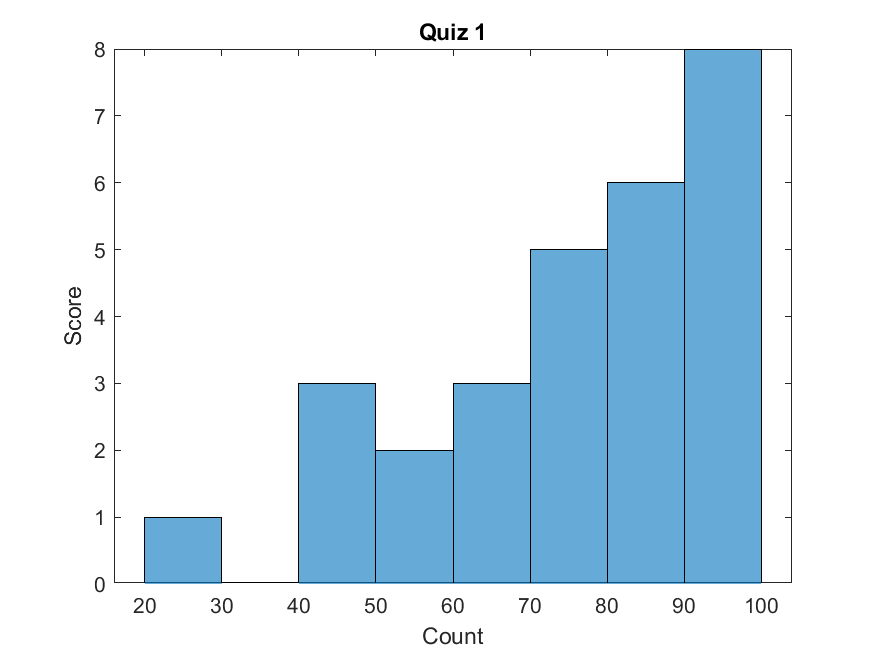
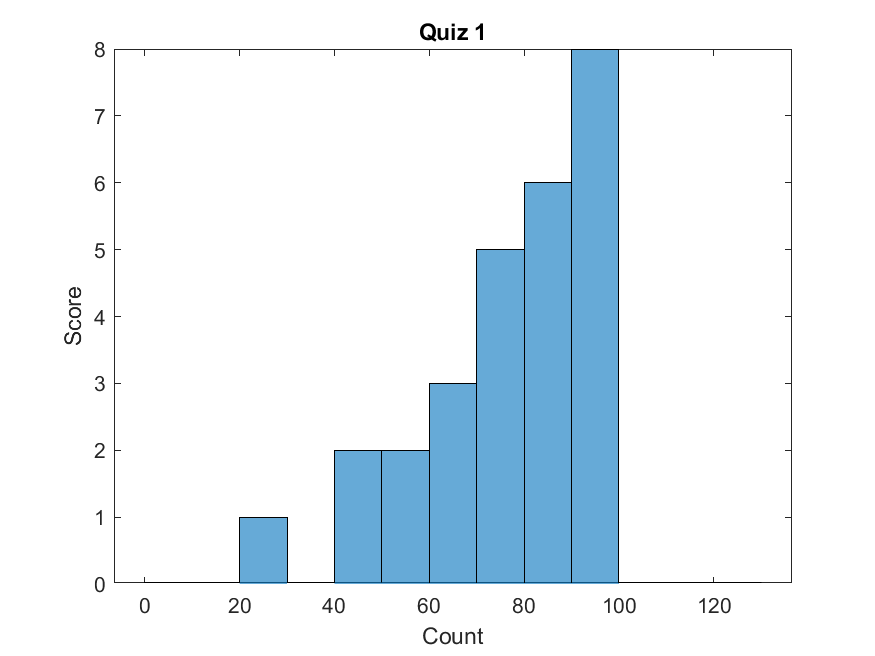
latest build

Changed region(s): [[0.4629, 0.061, 0.8949, 0.9451], [0.1543, 0.5793, 0.5246, 0.9451], [0.5863, 0.9146, 0.6171, 0.9451]]

diff --git a/index.html b/index.html
@@ -160,7 +160,7 @@ MathJax.Hub.Queue(function() {
                 </h3>
             </header>
             <section class="notepad-post-excerpt">
-                <p>Here is the solution to this quiz. You have 40 minutes to respond to the questions and submit your answers. Show that in a 1-dimensional elastic collision, the relative velocity of the two particles after the collision is the negative...</p>
+                <p>Here is the solution to this quiz. The following figure illustrates the grade distribution for this activity. Maximum possible points is 100 (excluding extra credit). You have 40 minutes to respond to the questions and submit your answers. Show that...</p>
             </section>
             
                 <div class="notepad-index-post-tags">
@@ -265,7 +265,7 @@ MathJax.Hub.Queue(function() {
                 </h3>
             </header>
             <section class="notepad-post-excerpt">
-                <p>Here is the solution to this quiz. You have 60 minutes to respond to the questions and submit your answers. A pendulum is held with its string horizontally and is then released. The mass swings down, and then on its...</p>
+                <p>Here is the solution to this quiz. The following figure illustrates the grade distribution for this activity. Maximum possible points is 100 (excluding extra credit). You have 60 minutes to respond to the questions and submit your answers. A pendulum...</p>
             </section>
             
                 <div class="notepad-index-post-tags">
@@ -298,18 +298,7 @@ MathJax.Hub.Queue(function() {
                 </h3>
             </header>
             <section class="notepad-post-excerpt">
-                <p>
-♣ Due Date: Tuesday March 25, 2025 at 3:30 PM.
-
-
-  See the following lecture notes for the homework problems. 
-When returning your answers, mark the sets with the corresponding lecture note numbers to make the sets distinguishable:
-    
-      acm7.pdf
-    
-  
-
-</p>
+                <p>The following figure illustrates the grade distribution for this activity. Maximum possible points is 100 (excluding extra credit). ♣ Due Date: Tuesday March 25, 2025 at 3:30 PM. See the following lecture notes for the homework problems. When returning your...</p>
             </section>
             
                 <div class="notepad-index-post-tags">
@@ -378,18 +367,7 @@ When returning your answers, mark the sets with the corresponding lecture note n
                 </h3>
             </header>
             <section class="notepad-post-excerpt">
-                <p>
-♣ Due Date: Tuesday March 4, 2025 at 3:30 PM.
-
-
-  See the following lecture notes for the homework problems. 
-When returning your answers, mark the sets with the corresponding lecture note numbers to make the sets distinguishable:
-    
-      acm6.pdf
-    
-  
-
-</p>
+                <p>The following figure illustrates the grade distribution for this activity. Maximum possible points is 100 (excluding extra credit). ♣ Due Date: Tuesday March 4, 2025 at 3:30 PM. See the following lecture notes for the homework problems. When returning your...</p>
             </section>
             
                 <div class="notepad-index-post-tags">
@@ -691,8 +669,8 @@ When returning your answers, mark the sets with the corresponding lecture note n
 </main>
     <footer class="notepad-site-footer">
     <div class="copyright">
-         <!-- <section>Last updated 2025 / 03 / 26</section></br> -->
-         <section>Last updated Wednesday, 26 Mar 2025 at 07:21 PM CST</section></br>
+         <!-- <section>Last updated 2025 / 03 / 27</section></br> -->
+         <section>Last updated Thursday, 27 Mar 2025 at 11:40 AM CST</section></br>
          <section>All content exclusively maintained by <a href=https://www.shahmoradi.org target="_blank">Amir Shahmoradi</a> <!-- &copy;--> </section></br>
          <section><a class="icon-ghost" href="https://www.uta.edu/physics/" target="_blank">Department of Physics | Data Science Program</a></section></br>
          <section><a class="icon-ghost" href="https://www.uta.edu/" target="_blank">The University of Texas at Arlington</a></section></br>

diff --git a/homework/4.html b/homework/4.html
@@ -142,6 +142,15 @@ MathJax.Hub.Queue(function() {
         
             <div style="text-align:justify;">
                 
+<p><br />
+The following figure illustrates the grade distribution for this activity.</p>
+<figure>
+    <img src="/ACM2025S/homework/hw4.png" width="700" />
+    <figcaption style="text-align:center">
+        Maximum possible points is 100 (excluding extra credit).
+    </figcaption>
+</figure>
+
 <p>♣ <strong>Due Date: Tuesday March 25, 2025 at 3:30 PM</strong>.</p>
 
 <ol>
@@ -218,8 +227,8 @@ When returning your answers, mark the sets with the corresponding lecture note n
 
     <footer class="notepad-site-footer">
     <div class="copyright">
-         <!-- <section>Last updated 2025 / 03 / 26</section></br> -->
-         <section>Last updated Wednesday, 26 Mar 2025 at 07:21 PM CST</section></br>
+         <!-- <section>Last updated 2025 / 03 / 27</section></br> -->
+         <section>Last updated Thursday, 27 Mar 2025 at 11:40 AM CST</section></br>
          <section>All content exclusively maintained by <a href=https://www.shahmoradi.org target="_blank">Amir Shahmoradi</a> <!-- &copy;--> </section></br>
          <section><a class="icon-ghost" href="https://www.uta.edu/physics/" target="_blank">Department of Physics | Data Science Program</a></section></br>
          <section><a class="icon-ghost" href="https://www.uta.edu/" target="_blank">The University of Texas at Arlington</a></section></br>

diff --git a/homework/3.html b/homework/3.html
@@ -142,6 +142,15 @@ MathJax.Hub.Queue(function() {
         
             <div style="text-align:justify;">
                 
+<p><br />
+The following figure illustrates the grade distribution for this activity.</p>
+<figure>
+    <img src="/ACM2025S/homework/hw3.png" width="700" />
+    <figcaption style="text-align:center">
+        Maximum possible points is 100 (excluding extra credit).
+    </figcaption>
+</figure>
+
 <p>♣ <strong>Due Date: Tuesday March 4, 2025 at 3:30 PM</strong>.</p>
 
 <ol>
@@ -218,8 +227,8 @@ When returning your answers, mark the sets with the corresponding lecture note n
 
     <footer class="notepad-site-footer">
     <div class="copyright">
-         <!-- <section>Last updated 2025 / 03 / 26</section></br> -->
-         <section>Last updated Wednesday, 26 Mar 2025 at 07:21 PM CST</section></br>
+         <!-- <section>Last updated 2025 / 03 / 27</section></br> -->
+         <section>Last updated Thursday, 27 Mar 2025 at 11:40 AM CST</section></br>
          <section>All content exclusively maintained by <a href=https://www.shahmoradi.org target="_blank">Amir Shahmoradi</a> <!-- &copy;--> </section></br>
          <section><a class="icon-ghost" href="https://www.uta.edu/physics/" target="_blank">Department of Physics | Data Science Program</a></section></br>
          <section><a class="icon-ghost" href="https://www.uta.edu/" target="_blank">The University of Texas at Arlington</a></section></br>

diff --git a/quiz/4.html b/quiz/4.html
@@ -150,6 +150,17 @@ MathJax.Hub.Queue(function() {
 
 <p><br /></p>
 
+<p>The following figure illustrates the grade distribution for this activity.</p>
+<figure>
+    <img src="/ACM2025S/quiz/qz4.png" width="700" />
+    <figcaption style="text-align:center">
+        Maximum possible points is 100 (excluding extra credit).
+    </figcaption>
+</figure>
+
+<hr />
+<hr />
+
 <p>You have 40 minutes to respond to the questions and submit your answers.</p>
 
 <p><br /></p>
@@ -243,8 +254,8 @@ What is the effective drag force experienced by the sphere? (score : 20)</li>
 
     <footer class="notepad-site-footer">
     <div class="copyright">
-         <!-- <section>Last updated 2025 / 03 / 26</section></br> -->
-         <section>Last updated Wednesday, 26 Mar 2025 at 07:21 PM CST</section></br>
+         <!-- <section>Last updated 2025 / 03 / 27</section></br> -->
+         <section>Last updated Thursday, 27 Mar 2025 at 11:40 AM CST</section></br>
          <section>All content exclusively maintained by <a href=https://www.shahmoradi.org target="_blank">Amir Shahmoradi</a> <!-- &copy;--> </section></br>
          <section><a class="icon-ghost" href="https://www.uta.edu/physics/" target="_blank">Department of Physics | Data Science Program</a></section></br>
          <section><a class="icon-ghost" href="https://www.uta.edu/" target="_blank">The University of Texas at Arlington</a></section></br>

diff --git a/about/index.html b/about/index.html
@@ -188,7 +188,7 @@ MathJax.Hub.Queue(function() {
 
 <h3 id="about-students">About Students</h3>
 
-<p>As of Wednesday, 26 Mar 2025 at 07:21 PM, there are 25 students enrolled in this course. Below is the latest photo of students.</p>
+<p>As of Thursday, 27 Mar 2025 at 11:40 AM, there are 25 students enrolled in this course. Below is the latest photo of students.</p>
 
 <figure>
 	<img src="/ACM2025S/images/about/minions.jpg" alt="students" />
@@ -217,8 +217,8 @@ MathJax.Hub.Queue(function() {
         <div class="cf"></div>
     <footer class="notepad-site-footer">
     <div class="copyright">
-         <!-- <section>Last updated 2025 / 03 / 26</section></br> -->
-         <section>Last updated Wednesday, 26 Mar 2025 at 07:21 PM CST</section></br>
+         <!-- <section>Last updated 2025 / 03 / 27</section></br> -->
+         <section>Last updated Thursday, 27 Mar 2025 at 11:40 AM CST</section></br>
          <section>All content exclusively maintained by <a href=https://www.shahmoradi.org target="_blank">Amir Shahmoradi</a> <!-- &copy;--> </section></br>
          <section><a class="icon-ghost" href="https://www.uta.edu/physics/" target="_blank">Department of Physics | Data Science Program</a></section></br>
          <section><a class="icon-ghost" href="https://www.uta.edu/" target="_blank">The University of Texas at Arlington</a></section></br>

diff --git a/quiz/3.html b/quiz/3.html
@@ -150,6 +150,17 @@ MathJax.Hub.Queue(function() {
 
 <p><br /></p>
 
+<p>The following figure illustrates the grade distribution for this activity.</p>
+<figure>
+    <img src="/ACM2025S/quiz/qz3.png" width="700" />
+    <figcaption style="text-align:center">
+        Maximum possible points is 100 (excluding extra credit).
+    </figcaption>
+</figure>
+
+<hr />
+<hr />
+
 <p>You have 60 minutes to respond to the questions and submit your answers.</p>
 
 <p><br /></p>
@@ -256,8 +267,8 @@ MathJax.Hub.Queue(function() {
 
     <footer class="notepad-site-footer">
     <div class="copyright">
-         <!-- <section>Last updated 2025 / 03 / 26</section></br> -->
-         <section>Last updated Wednesday, 26 Mar 2025 at 07:21 PM CST</section></br>
+         <!-- <section>Last updated 2025 / 03 / 27</section></br> -->
+         <section>Last updated Thursday, 27 Mar 2025 at 11:40 AM CST</section></br>
          <section>All content exclusively maintained by <a href=https://www.shahmoradi.org target="_blank">Amir Shahmoradi</a> <!-- &copy;--> </section></br>
          <section><a class="icon-ghost" href="https://www.uta.edu/physics/" target="_blank">Department of Physics | Data Science Program</a></section></br>
          <section><a class="icon-ghost" href="https://www.uta.edu/" target="_blank">The University of Texas at Arlington</a></section></br>

diff --git a/homework/2.html b/homework/2.html
@@ -229,8 +229,8 @@ When returning your answers, mark the two sets with the lecture note number to m
 
     <footer class="notepad-site-footer">
     <div class="copyright">
-         <!-- <section>Last updated 2025 / 03 / 26</section></br> -->
-         <section>Last updated Wednesday, 26 Mar 2025 at 07:21 PM CST</section></br>
+         <!-- <section>Last updated 2025 / 03 / 27</section></br> -->
+         <section>Last updated Thursday, 27 Mar 2025 at 11:40 AM CST</section></br>
          <section>All content exclusively maintained by <a href=https://www.shahmoradi.org target="_blank">Amir Shahmoradi</a> <!-- &copy;--> </section></br>
          <section><a class="icon-ghost" href="https://www.uta.edu/physics/" target="_blank">Department of Physics | Data Science Program</a></section></br>
          <section><a class="icon-ghost" href="https://www.uta.edu/" target="_blank">The University of Texas at Arlington</a></section></br>

diff --git a/quiz/2.html b/quiz/2.html
@@ -274,8 +274,8 @@ in which ${\mathbf v}$ represents the velocity of the particle at any given mome
 
     <footer class="notepad-site-footer">
     <div class="copyright">
-         <!-- <section>Last updated 2025 / 03 / 26</section></br> -->
-         <section>Last updated Wednesday, 26 Mar 2025 at 07:21 PM CST</section></br>
+         <!-- <section>Last updated 2025 / 03 / 27</section></br> -->
+         <section>Last updated Thursday, 27 Mar 2025 at 11:40 AM CST</section></br>
          <section>All content exclusively maintained by <a href=https://www.shahmoradi.org target="_blank">Amir Shahmoradi</a> <!-- &copy;--> </section></br>
          <section><a class="icon-ghost" href="https://www.uta.edu/physics/" target="_blank">Department of Physics | Data Science Program</a></section></br>
          <section><a class="icon-ghost" href="https://www.uta.edu/" target="_blank">The University of Texas at Arlington</a></section></br>

diff --git a/404.html b/404.html
@@ -138,8 +138,8 @@ MathJax.Hub.Queue(function() {
         <div class="cf"></div>
     <footer class="notepad-site-footer">
     <div class="copyright">
-         <!-- <section>Last updated 2025 / 03 / 26</section></br> -->
-         <section>Last updated Wednesday, 26 Mar 2025 at 07:21 PM CST</section></br>
+         <!-- <section>Last updated 2025 / 03 / 27</section></br> -->
+         <section>Last updated Thursday, 27 Mar 2025 at 11:40 AM CST</section></br>
          <section>All content exclusively maintained by <a href=https://www.shahmoradi.org target="_blank">Amir Shahmoradi</a> <!-- &copy;--> </section></br>
          <section><a class="icon-ghost" href="https://www.uta.edu/physics/" target="_blank">Department of Physics | Data Science Program</a></section></br>
          <section><a class="icon-ghost" href="https://www.uta.edu/" target="_blank">The University of Texas at Arlington</a></section></br>

diff --git a/categories/index.html b/categories/index.html
@@ -274,8 +274,8 @@ MathJax.Hub.Queue(function() {
         <div class="cf"></div>
     <footer class="notepad-site-footer">
     <div class="copyright">
-         <!-- <section>Last updated 2025 / 03 / 26</section></br> -->
-         <section>Last updated Wednesday, 26 Mar 2025 at 07:21 PM CST</section></br>
+         <!-- <section>Last updated 2025 / 03 / 27</section></br> -->
+         <section>Last updated Thursday, 27 Mar 2025 at 11:40 AM CST</section></br>
          <section>All content exclusively maintained by <a href=https://www.shahmoradi.org target="_blank">Amir Shahmoradi</a> <!-- &copy;--> </section></br>
          <section><a class="icon-ghost" href="https://www.uta.edu/physics/" target="_blank">Department of Physics | Data Science Program</a></section></br>
          <section><a class="icon-ghost" href="https://www.uta.edu/" target="_blank">The University of Texas at Arlington</a></section></br>

diff --git a/highlights/index.html b/highlights/index.html
@@ -176,8 +176,8 @@ MathJax.Hub.Queue(function() {
         <div class="cf"></div>
     <footer class="notepad-site-footer">
     <div class="copyright">
-         <!-- <section>Last updated 2025 / 03 / 26</section></br> -->
-         <section>Last updated Wednesday, 26 Mar 2025 at 07:21 PM CST</section></br>
+         <!-- <section>Last updated 2025 / 03 / 27</section></br> -->
+         <section>Last updated Thursday, 27 Mar 2025 at 11:40 AM CST</section></br>
          <section>All content exclusively maintained by <a href=https://www.shahmoradi.org target="_blank">Amir Shahmoradi</a> <!-- &copy;--> </section></br>
          <section><a class="icon-ghost" href="https://www.uta.edu/physics/" target="_blank">Department of Physics | Data Science Program</a></section></br>
          <section><a class="icon-ghost" href="https://www.uta.edu/" target="_blank">The University of Texas at Arlington</a></section></br>

diff --git a/tags/index.html b/tags/index.html
@@ -144,8 +144,8 @@ MathJax.Hub.Queue(function() {
         <div class="cf"></div>
     <footer class="notepad-site-footer">
     <div class="copyright">
-         <!-- <section>Last updated 2025 / 03 / 26</section></br> -->
-         <section>Last updated Wednesday, 26 Mar 2025 at 07:21 PM CST</section></br>
+         <!-- <section>Last updated 2025 / 03 / 27</section></br> -->
+         <section>Last updated Thursday, 27 Mar 2025 at 11:40 AM CST</section></br>
          <section>All content exclusively maintained by <a href=https://www.shahmoradi.org target="_blank">Amir Shahmoradi</a> <!-- &copy;--> </section></br>
          <section><a class="icon-ghost" href="https://www.uta.edu/physics/" target="_blank">Department of Physics | Data Science Program</a></section></br>
          <section><a class="icon-ghost" href="https://www.uta.edu/" target="_blank">The University of Texas at Arlington</a></section></br>
